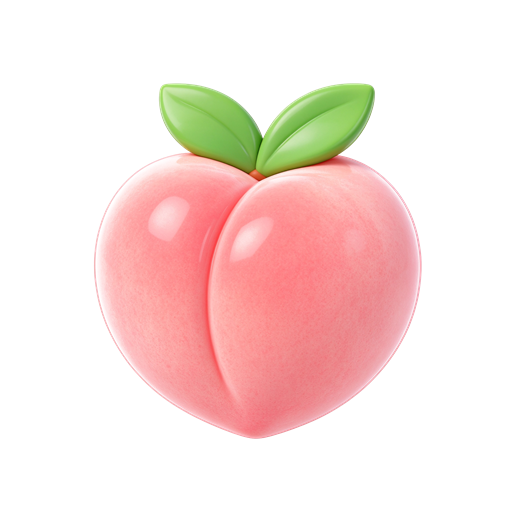
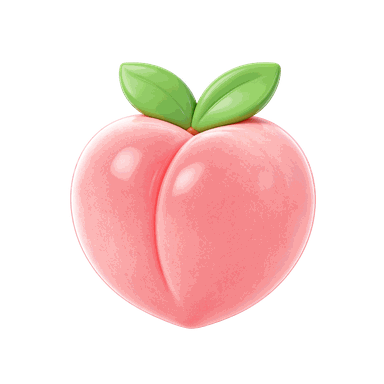
更新游戏源文件

diff --git a/fruit-game/game.js b/fruit-game/game.js
@@ -36,21 +36,23 @@ const PHASES = [
 ];
 function phaseOf(t){ return t < 20 ? PHASES[0] : (t < 40 ? PHASES[1] : PHASES[2]); }
 
-/* --------- 素材几何：content bbox（2048×2048 内），用于把图片内容对准中心 --------- */
+/* --------- 素材几何：可见内容框占整幅图的比例（与文件分辨率无关）
+   数值直接由 images/ 里的实际文件量得，所以图片重新缩放 / 压缩后依然对准中心。
+   cw,ch = 内容宽高比例；cx,cy = 内容几何中心比例 --------- */
 const SPR = {
-  apple:      { f:'apple.png',      bw:1423, bh:1468, cx:1030.5, cy:1034.0 },
-  axe:        { f:'axe.png',        bw:1297, bh:1528, cx:1047.5, cy:1072.0 },
-  banana:     { f:'banana.png',     bw:1267, bh:1175, cx:1025.5, cy:1013.5 },
-  bomb:       { f:'bomb.png',       bw:1065, bh:1572, cx:1027.5, cy:1042.0 },
-  dart:       { f:'dart.png',       bw:1450, bh:1378, cx:1021.0, cy:1043.0 },
-  dice:       { f:'dice.png',       bw:1449, bh:1494, cx:1030.5, cy:1034.0 },
-  grape:      { f:'grape.png',      bw:1175, bh:1695, cx:1022.5, cy:1031.5 },
-  knife:      { f:'knife.png',      bw:1291, bh:1651, cx:1045.5, cy:1036.5 },
-  orange:     { f:'orange.png',     bw:1360, bh:1600, cx:1034.0, cy:1030.0 },
-  peach:      { f:'peach.png',      bw:1312, bh:1423, cx:1030.0, cy:1042.5 },
-  pineapple:  { f:'pineapple.png',  bw:963,  bh:1689, cx:1026.5, cy:1027.5 },
-  strawberry: { f:'strawberry.png', bw:1162, bh:1570, cx:1029.0, cy:1028.0 },
-  watermelon: { f:'watermelon.png', bw:1211, bh:1348, cx:1024.5, cy:1046.0 }
+  apple:      { f:'apple.png',      cw:0.7031, ch:0.7292, cx:0.5052, cy:0.5052 },
+  axe:        { f:'axe.png',        cw:0.6380, ch:0.7500, cx:0.5117, cy:0.5234 },
+  banana:     { f:'banana.png',     cw:0.6224, ch:0.5781, cx:0.5013, cy:0.4948 },
+  bomb:       { f:'bomb.png',       cw:0.5286, ch:0.7734, cx:0.5039, cy:0.5117 },
+  dart:       { f:'dart.png',       cw:0.7161, ch:0.6797, cx:0.4961, cy:0.5117 },
+  dice:       { f:'dice.png',       cw:0.7094, ch:0.7312, cx:0.5031, cy:0.5047 },
+  grape:      { f:'grape.png',      cw:0.5755, ch:0.8307, cx:0.4987, cy:0.5039 },
+  knife:      { f:'knife.png',      cw:0.6354, ch:0.8073, cx:0.5104, cy:0.5052 },
+  orange:     { f:'orange.png',     cw:0.6693, ch:0.7839, cx:0.5065, cy:0.5039 },
+  peach:      { f:'peach.png',      cw:0.6484, ch:0.6953, cx:0.5013, cy:0.5091 },
+  pineapple:  { f:'pineapple.png',  cw:0.4714, ch:0.8281, cx:0.5013, cy:0.5026 },
+  strawberry: { f:'strawberry.png', cw:0.5755, ch:0.7682, cx:0.5039, cy:0.5013 },
+  watermelon: { f:'watermelon.png', cw:0.5938, ch:0.6615, cx:0.5000, cy:0.5104 }
 };
 
 /* --------- 水果表：size = 内容最长边（逻辑像素），pts = 分数 --------- */
@@ -413,6 +415,7 @@ function nearestS(path){
  *  3) DOM 与画布
  * ========================================================================= */
 const $ = id => document.getElementById(id);
+const app       = $('app');
 const stage     = $('stage');
 const canvas    = $('world');
 const ctx       = canvas.getContext('2d');
@@ -427,17 +430,34 @@ const IMG = {};
 let renderScale = 1;
 
 function resize(){
-  const k = Math.min(window.innerWidth / STAGE_W, window.innerHeight / STAGE_H);
+  // 手机地址栏会伸缩：visualViewport 才是“真正能看到”的那块区域
+  const vv = window.visualViewport;
+  const vw = Math.round((vv && vv.width)  || window.innerWidth);
+  const vh = Math.round((vv && vv.height) || window.innerHeight);
+
+  app.style.width  = vw + 'px';
+  app.style.height = vh + 'px';
+  // 页面被滚动/缩放时，fixed 元素仍贴在布局视口上，需要按可视视口偏移补偿，
+  // 这样嵌在博客文章里（页面可滚动）时游戏也始终对齐可见区域
+  if (vv) app.style.transform =
+    'translate(' + Math.round(vv.offsetLeft || 0) + 'px,' + Math.round(vv.offsetTop || 0) + 'px)';
+
+  const k = Math.min(vw / STAGE_W, vh / STAGE_H);
   stage.style.transform = 'scale(' + k + ')';
-  const s = clamp((window.devicePixelRatio || 1) * k, 1, 3);
+
+  // 画布后备像素：够清晰即可，封顶 2 倍，避免手机上填充率过高
+  const s = clamp((window.devicePixelRatio || 1) * k, 1, 2);
   renderScale = s;
   canvas.width  = Math.round(STAGE_W * s);
   canvas.height = Math.round(STAGE_H * s);
   ctx.setTransform(s, 0, 0, s, 0, 0);
 }
 
+/** 背景图也要预热，否则载入画面消失后背景还没到，会闪一下深色底 */
+const BACKGROUNDS = ['title_screen.webp', 'game_screen.webp', 'pause_screen.webp'];
+
 function loadImages(){
-  const list = Object.keys(SPR).map(k => SPR[k].f);
+  const list = Object.keys(SPR).map(k => SPR[k].f).concat(BACKGROUNDS);
   return Promise.all(list.map(f => new Promise(res => {
     const im = new Image();
     im.onload = () => { IMG[f] = im; res(); };
@@ -446,12 +466,12 @@ function loadImages(){
   })));
 }
 
-/** 以内容几何中心为基准绘制精灵（当前变换的原点 = 目标点） */
+/** 以内容几何中心为基准绘制精灵（当前变换的原点 = 目标点，内容最长边 = size） */
 function drawSpriteAt(name, size){
   const s = SPR[name], img = IMG[s.f];
   if (!img) return;
-  const S = size * 2048 / Math.max(s.bw, s.bh);
-  ctx.drawImage(img, -(s.cx / 2048) * S, -(s.cy / 2048) * S, S, S);
+  const S = size / Math.max(s.cw, s.ch);
+  ctx.drawImage(img, -s.cx * S, -s.cy * S, S, S);
 }
 
 /* --------- 光晕贴图（预渲染，避免每帧建渐变） --------- */
@@ -1105,6 +1125,11 @@ function bind(){
 
   window.addEventListener('resize', resize);
   window.addEventListener('orientationchange', resize);
+  // 手机滚动/地址栏收放会改变可视区域，需要重新适配
+  if (window.visualViewport){
+    window.visualViewport.addEventListener('resize', resize);
+    window.visualViewport.addEventListener('scroll', resize);
+  }
 }
 
 async function init(){

diff --git a/fruit-game/styles.css b/fruit-game/styles.css
@@ -25,10 +25,16 @@ body{
 }
 .hidden{display:none !important}
 
-#app{position:fixed;inset:0;display:flex;align-items:center;justify-content:center}
+/* #app 的尺寸由 JS 按“实际可视区域”写入（处理手机地址栏收放），
+   这里给一个纯 CSS 回退值，避免脚本执行前尺寸为 0 */
+#app{
+  position:fixed;left:0;top:0;
+  width:100%;height:100vh;height:100dvh;
+  display:flex;align-items:center;justify-content:center;
+}
 
 #stage{
-  position:relative;width:540px;height:960px;
+  position:relative;width:540px;height:960px;flex:none;
   transform-origin:center center;
   border-radius:16px;overflow:hidden;
   background:#0b0817;
@@ -36,12 +42,18 @@ body{
 }
 
 .layer{position:absolute;inset:0}
-#world{pointer-events:none}
 
-/* 背景 */
-.bg-game{background:url(images/game_screen.png) center/cover no-repeat}
-.bg-title{background:url(images/title_screen.png) center/cover no-repeat}
-.bg-pause{background:url(images/pause_screen.png) center/cover no-repeat}
+/* ⚠ canvas 是“替换元素”：只写 inset:0 时 width:auto 会解析成它自身的内在尺寸
+   （即 canvas.width 属性），right:0 / bottom:0 被忽略。
+   高 dpr 手机上 canvas.width = 540 × (dpr×k) 是 540 的 2~3 倍，
+   画布就会被撑大 2~3 倍，只露出左上角约 1/s² 的画面 ——
+   表现就是“界面正常但轨迹/水果跑到屏幕外”。必须显式给出 CSS 布局尺寸。 */
+#world{width:540px;height:960px;pointer-events:none}
+
+/* 背景（已压成 WebP：三张合计 ~550KB，原 PNG 合计 ~11MB） */
+.bg-game{background:url(images/game_screen.webp) center/cover no-repeat}
+.bg-title{background:url(images/title_screen.webp) center/cover no-repeat}
+.bg-pause{background:url(images/pause_screen.webp) center/cover no-repeat}
 
 .screen{position:absolute;inset:0;z-index:20}
 
